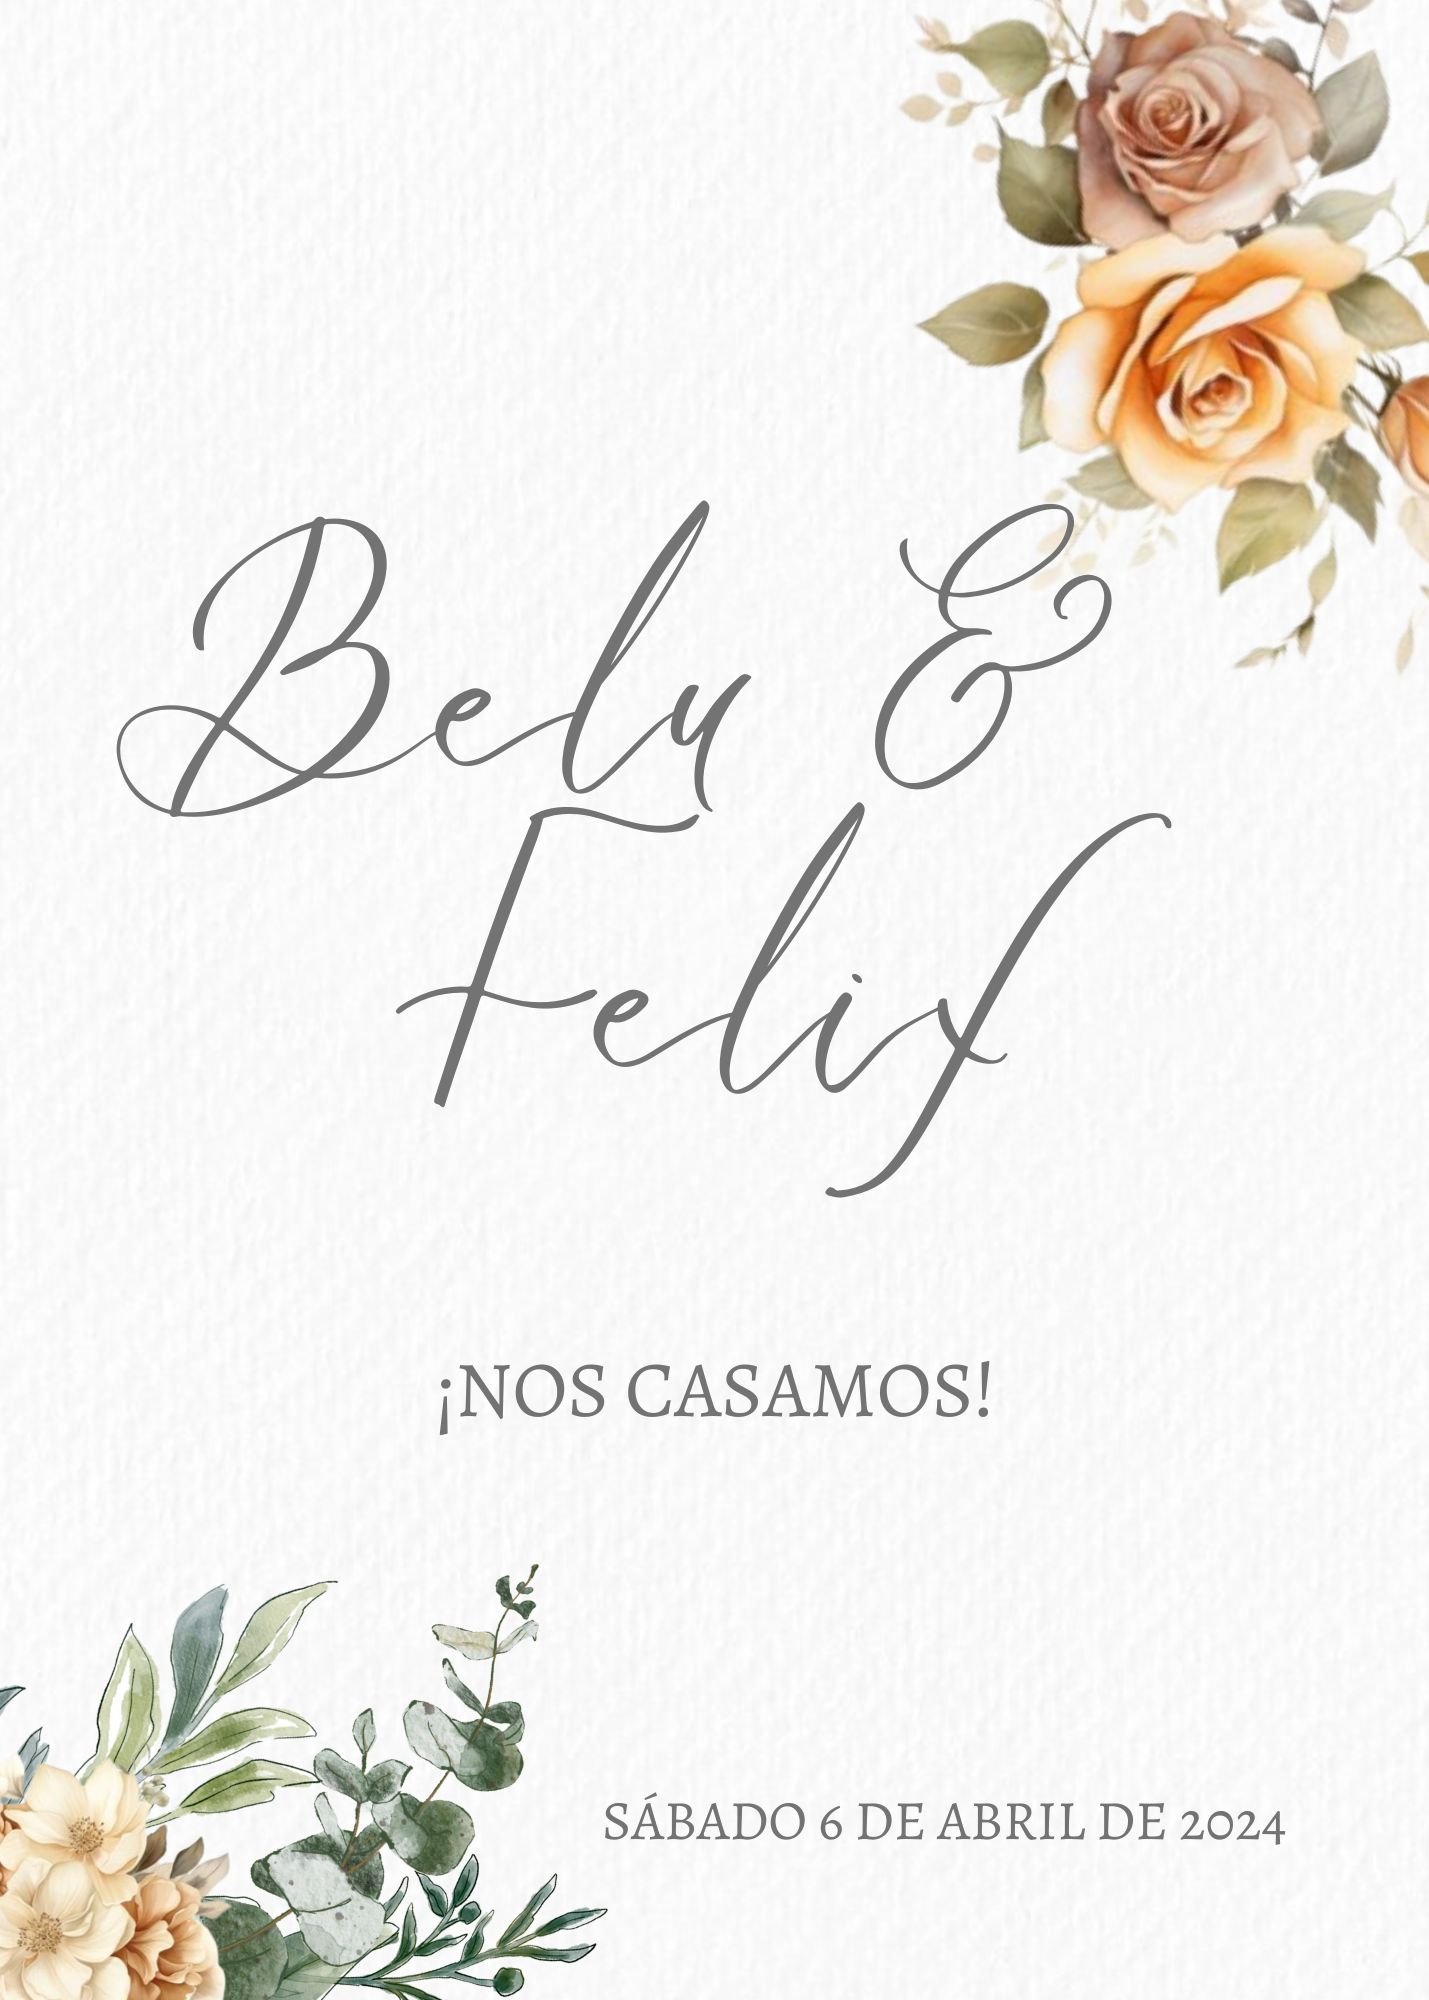
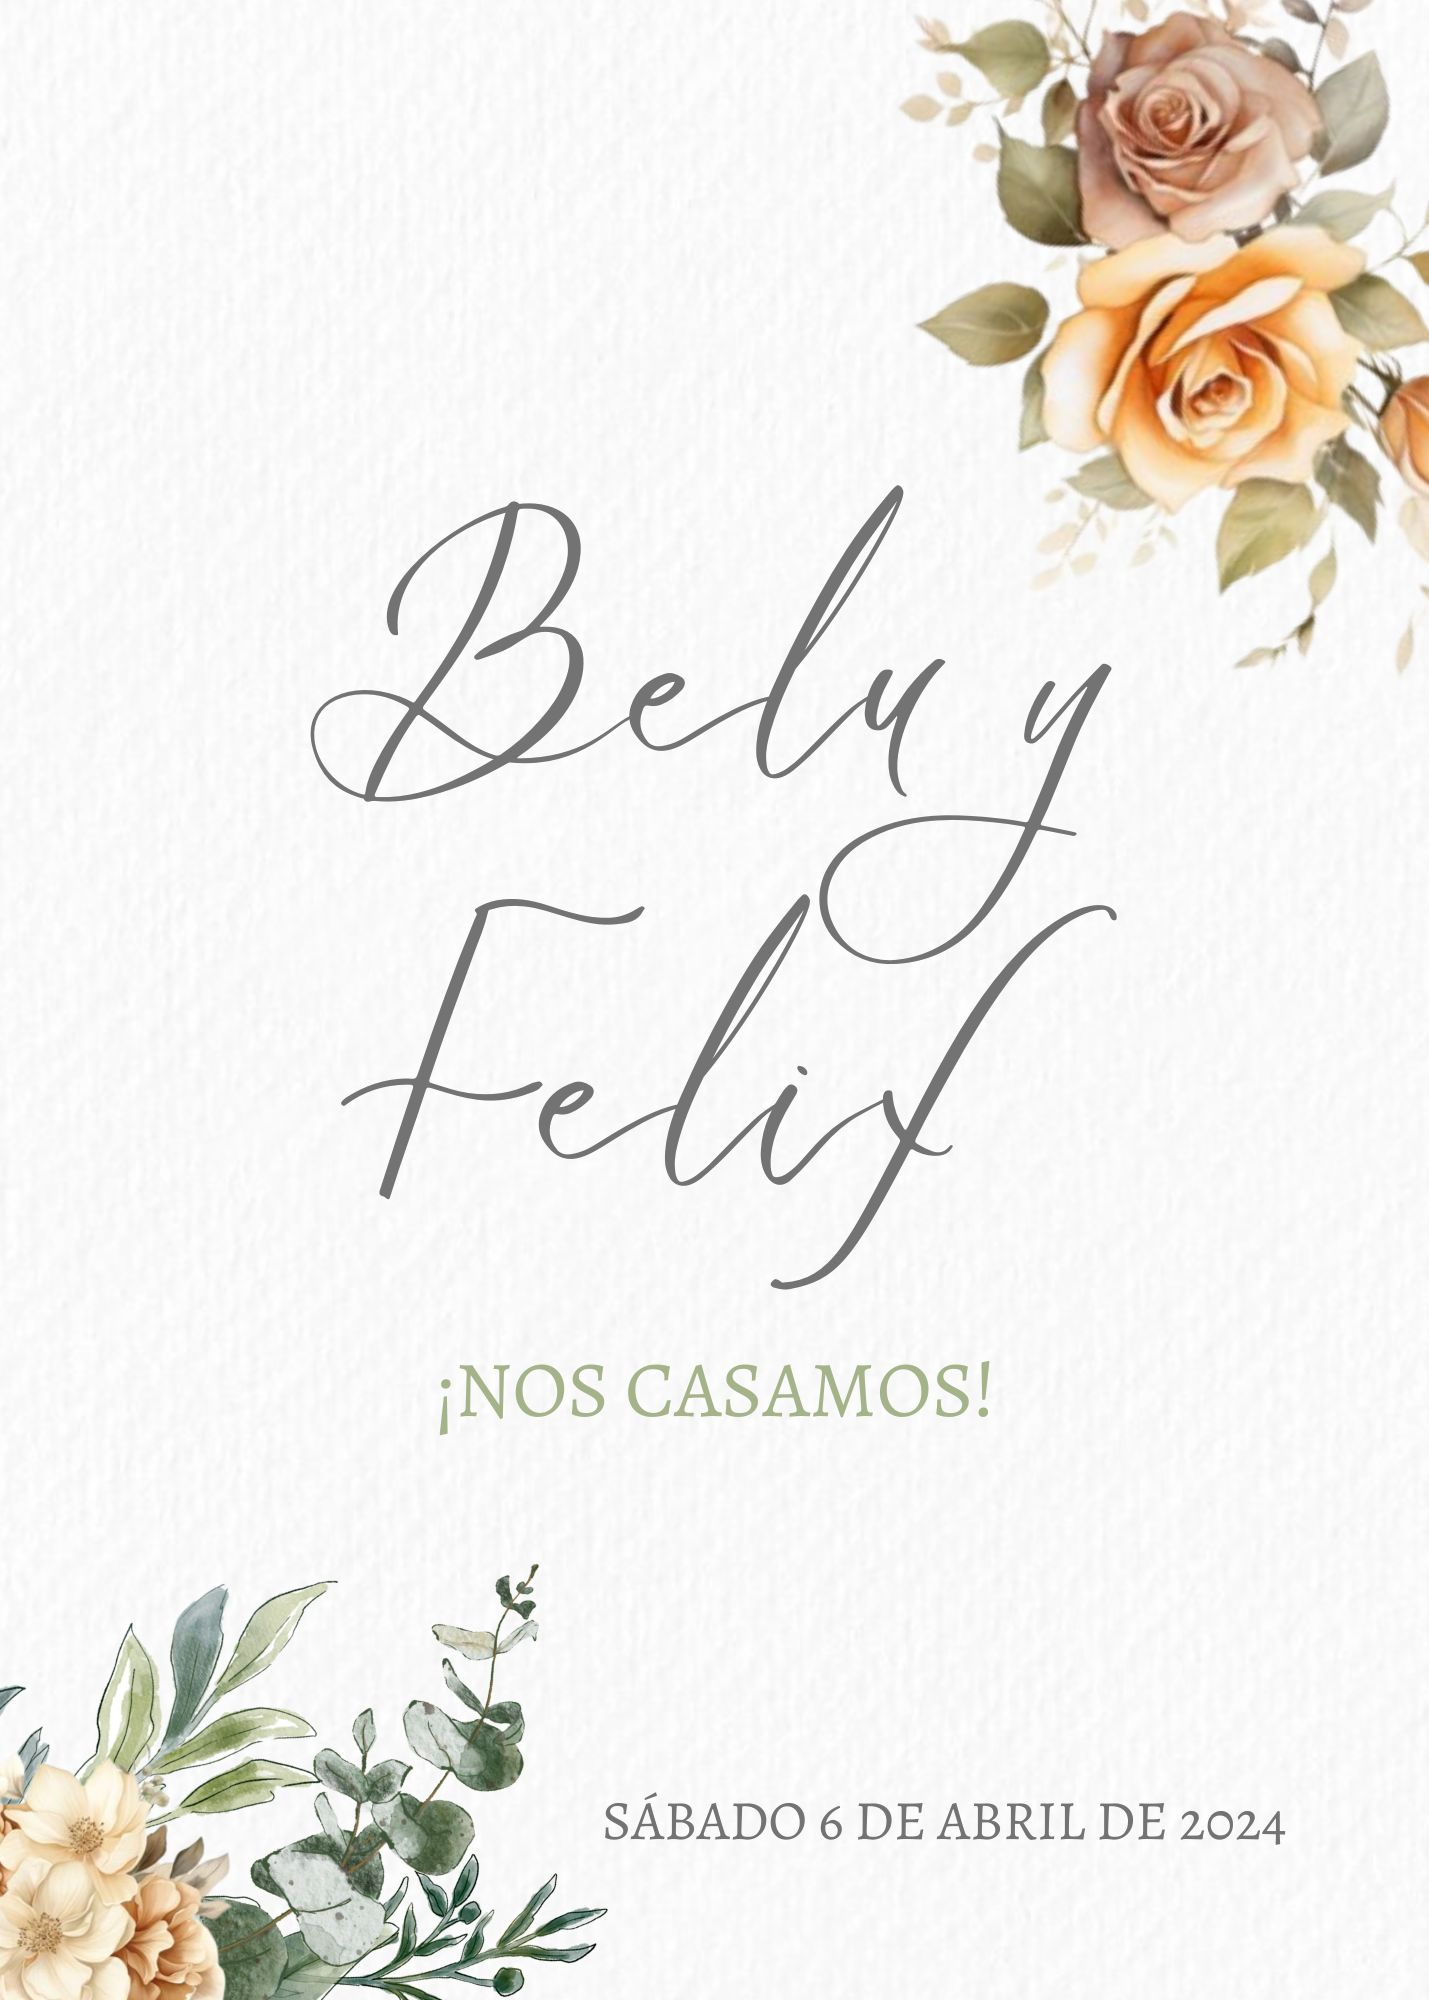
siete

diff --git a/style.css b/style.css
@@ -171,6 +171,41 @@ margin-top: 5%;
    margin-top: 8%;
    
   }
+  .linea4{
+    color:#6B928F;
+    width: 70%;
+   margin-left: 15%;
+   margin-top: 8%;
+   
+  }
+  .click3{
+    padding: 1px 8px;
+    font-size: 18px;
+    border: none;
+    color: #ffffff;
+    background-color:#D97F37;
+    border-radius: 7px;
+    box-shadow: 1px 1px 30px -5px rgb(178, 202, 142);
+    cursor: pointer;
+   margin-left: 24%;
+   text-decoration: none;
+    background-size: 120%;
+    margin-top: 4%;
+    background-size: 50%;
+    font-family: 'Julius Sans One', sans-serif;
+
+  }
+
+  .linea6{
+    color:#6B928F;
+    width: 70%;
+   margin-left: 15%;
+   margin-top: 12%;
+   
+  }
+
+
+
 
   .parrafo3{
     text-align: center;
@@ -214,12 +249,43 @@ margin-top: 5%;
     font-weight: bold;
   }
 
+  .parrafo4Aloja{
+    text-align: center;
+    font-family: "Alegreya", serif; 
+       font-size: 17px;
+       color: #4d4c4c;
+       
+  }
+  .linea5{
+    color:#6B928F;
+    width: 70%;
+   margin-left: 15%;
+   margin-top: 8%;
+   
+  }
+
+  .parrafo-esperamos{
+    text-align: center;
+    font-family: "Alegreya", serif; 
+       font-size: 17px;
+       color: #4d4c4c;
+       margin-top: 20%;
+  }
+.nombres{
+  color: #D97F37;;
+}
+
+.corazon{
+  width: 10%;
+  margin-left: 45%;
+margin-top: -5%;
+}
 
 
 
 
   .box__copyright {
-    margin-top: 6%;
+    margin-top: 30%;
   
   }
   

diff --git a/index.html b/index.html
@@ -149,9 +149,50 @@
   </div>
 </div>
 
+<hr class="linea4">
+<p class="parrafo1"><b>¿Venís?</b></p>
+<a class="click3" href="https://forms.gle/cXmmqkyzk48uDTfP8" target="_blank"> <b>Confirma tu asistencia</b></a>
+<hr class="linea6">
 
 <br>
+
+
+<p class="parrafo1"><b>Info Útil</b></p>
+<p class="parrafo2">Te dejamos sugerencias de alojamientos.</p>
+<p class="parrafo4Aloja"> <b>Campo Hotel Nono Luigi</b>
+   <br>Au Códoba - Rosario Km 629, X5986 <br> Oncativo Córdoba <br> Tel: 3572-670106</p>
+
 <br>
+   <p class="parrafo4Aloja"> <b>Hotel La Posta</b>
+    <br>San Martín 1182, X5986 Oncativo, Córdoba <br> 5986 Oncativo, Córdoba <br> Tel: 3572-524056</p>
+
+
+<br>
+
+<p class="parrafo4Aloja"> <b>Apart Hotel Milenio</b>
+  <br>Apart Hotel Milenio <br> 5986 Oncativo, Córdoba <br> Tel: 3572-523202</p>
+<br>
+
+  <p class="parrafo4Aloja"> <b>Apart Hotel La campiña</b>
+    <br> Autopista Córdoba - Rosario <br>acceso a Oncativo norte, <br> X5986 Oncativo - Córdoba <br> Tel: 3572-547604</p>
+  
+
+
+<hr class="linea5">
+
+<p class="parrafo-esperamos">Gracias por acompañarnos en este <br> momento tan importante <br><b class="nombres">BELU Y FELIX</b></p>
+<img class="corazon" src="./imagenes/corazon.gif" alt="">
+
+
+
+
+
+
+
+
+
+
+
 
 <div class="box__copyright">
   <hr class="linea4">
